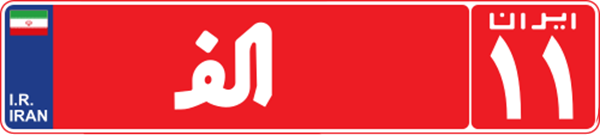
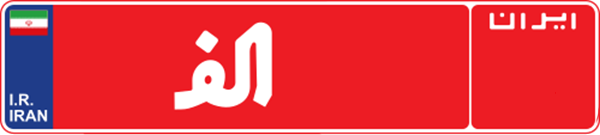
removing city code

Changed region(s): [[0.9, 0.2667, 0.96, 0.8889], [0.81, 0.2667, 0.87, 0.8889]]

diff --git a/ocr/Dataset/generated_plates/generate_plates.py b/ocr/Dataset/generated_plates/generate_plates.py
@@ -48,6 +48,11 @@ def getNewPlate(template_name):
     selected_letter = random.choice(valid_letters)
     # print(f"Selected letter for template '{template_name}': {selected_letter}")
     #full = is_shakhsi
+    city_code_1 = random.choice(range(1, 10))
+    if template_name in ['sepah', 'police', 'defa', 'artesh', 'Niromosalah', 'diplomat', 'service']:
+        city_code_2 = random.choice((0, city_code_1))   # Ensure city_code_2 is not zero for these templates
+    else:
+        city_code_2 = random.choice(range(0, 10))
     ret = [
         random.choice(range(1, 10)),  # n1
         random.choice(range(1, 10)),  # n2
@@ -55,8 +60,8 @@ def getNewPlate(template_name):
         random.choice(range(1, 10)),  # n3
         random.choice(range(1, 10)),  # n4
         random.choice(range(1, 10)),  # n5
-        random.choice(range(1, 10)),  # city_code_1
-        random.choice(range(0, 10))   # city_code_2
+        city_code_1,  # city_code_1
+        city_code_2   # city_code_2
         #0
     ]
     print("plate:",ret)
@@ -165,7 +170,7 @@ def main():
 
     for templates in os.listdir(t):
 
-        base = templates in ['shakhsi', 'malolin va janbazan', 'tranzit']
+        base = templates in ['shakhsi', 'malolin va janbazan', 'tranzit', 'ommomi', 'dolati','nezami','siasi']
 
         for template in os.listdir(t + templates):
             idCounter = 0
@@ -289,7 +294,7 @@ def main():
                         # print(y_cursor)
                         y_cursor -= -23
 
-                    x_city_second = x_city_start + 45 + s_2r
+                    x_city_second = x_city_start + 50 + s_2r
 
                     newPlate.paste(
                         glyphImages[7],
